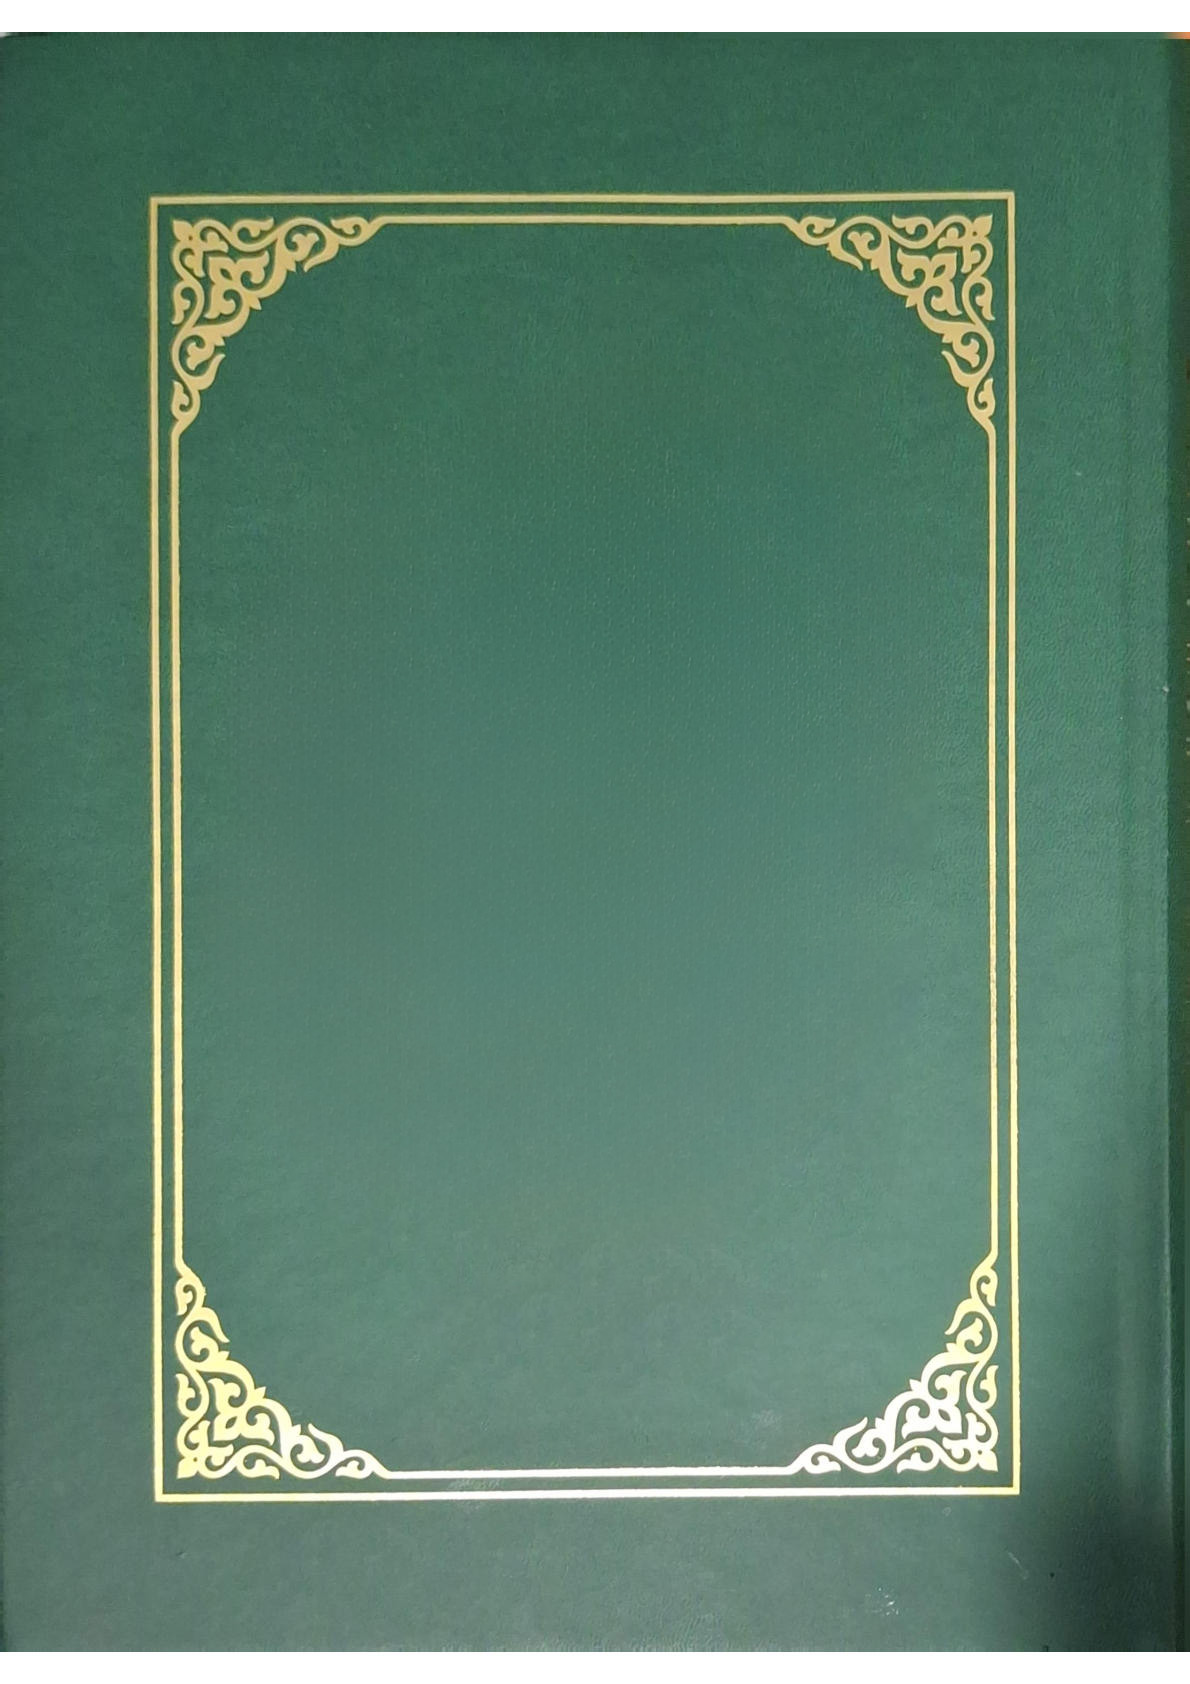
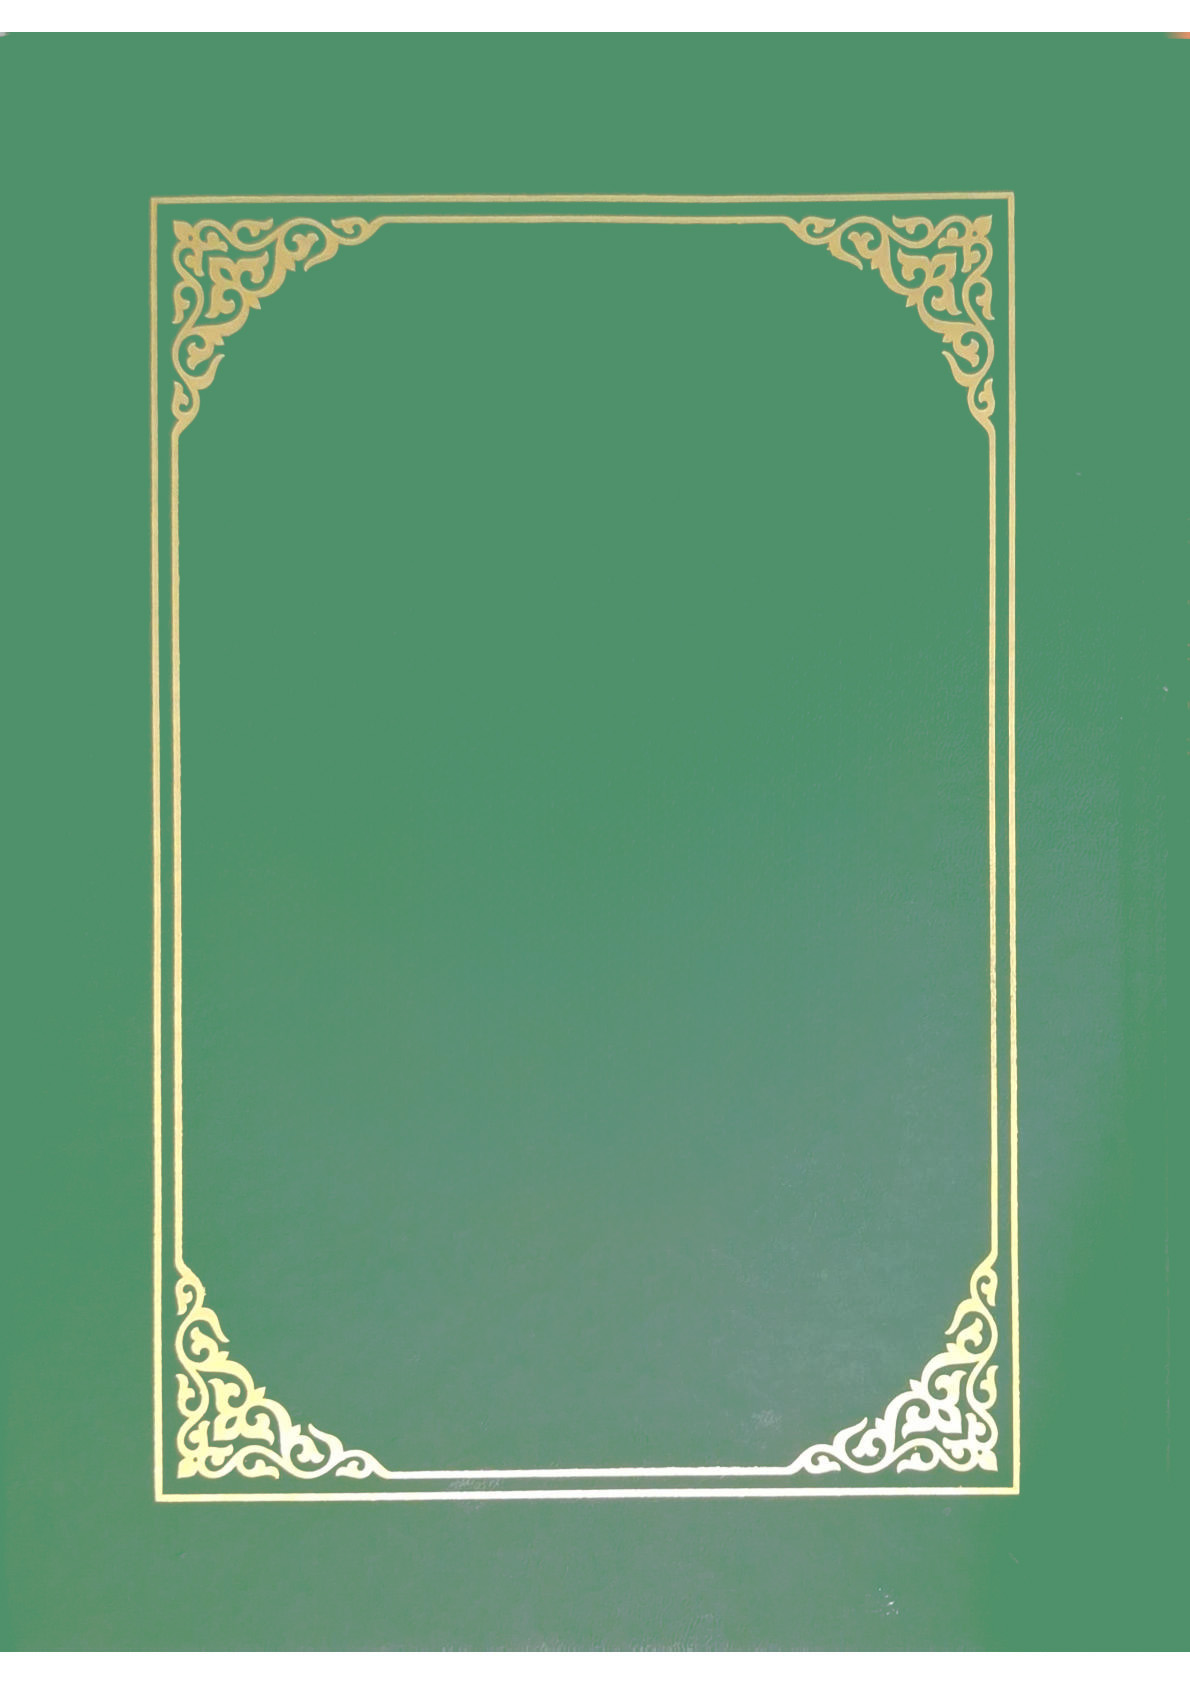
update

diff --git a/pages/mainpage.html b/pages/mainpage.html
@@ -27,11 +27,11 @@
             display: none;
         }
     </style>
-    <script>
+    <!--script>
 if (!localStorage.getItem("user")) {
     window.location.href = "../index.html";
 }
-</script>
+</script-->
 </head>
 <body>
 
